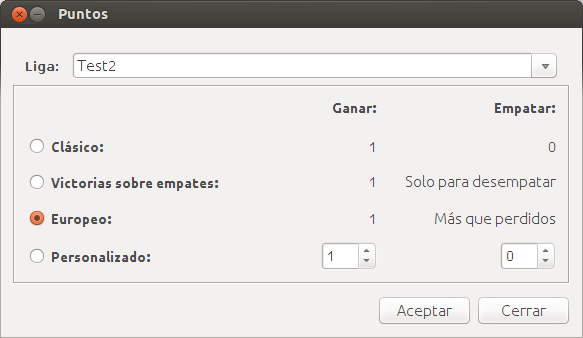
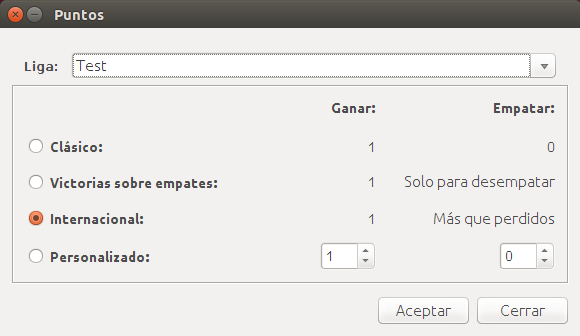
International Score added.

diff --git a/kendotournament-gui/src/main/java/com/softwaremagico/ktg/gui/ChooseScore.java b/kendotournament-gui/src/main/java/com/softwaremagico/ktg/gui/ChooseScore.java
@@ -62,7 +62,6 @@ public class ChooseScore extends javax.swing.JFrame {
         ClassicRadioButton.setText(trans.getTranslatedText("ClassicRadioButton"));
         WinOverDrawsRadioButton.setText(trans.getTranslatedText("WinOverDrawsRadioButton"));
         CustomRadioButton.setText(trans.getTranslatedText("CustomRadioButton"));
-        EuropeanRadioButton.setText(trans.getTranslatedText("EuropeanRadioButton"));
         InternationalRadioButton.setText(trans.getTranslatedText("InternationlRadioButton"));
         WinLabel.setText(trans.getTranslatedText("WinTag"));
         DrawLabel.setText(trans.getTranslatedText("DrawTag"));
@@ -77,8 +76,6 @@ public class ChooseScore extends javax.swing.JFrame {
         switch (scoreType) {
             case CUSTOM:
                 return CustomRadioButton;
-            case EUROPEAN:
-                return EuropeanRadioButton;
             case INTERNATIONAL:
             	return InternationalRadioButton;
             case CLASSIC:
@@ -116,7 +113,7 @@ public class ChooseScore extends javax.swing.JFrame {
         if (CustomRadioButton.isSelected()) {
             return ScoreType.CUSTOM;
         }
-        if (EuropeanRadioButton.isSelected()) {
+        if (InternationalRadioButton.isSelected()) {
             return ScoreType.EUROPEAN;
         }
         if (InternationalRadioButton.isSelected()) {
@@ -147,8 +144,8 @@ public class ChooseScore extends javax.swing.JFrame {
         try {
             List<Tournament> listTournaments = TournamentPool.getInstance().getSorted();
             try {
-                for (int i = 0; i < listTournaments.size(); i++) {
-                    TournamentComboBox.addItem(listTournaments.get(i));
+                for (Tournament listTournament : listTournaments) {
+                    TournamentComboBox.addItem(listTournament);
                 }
                 TournamentComboBox.setSelectedItem(KendoTournamentGenerator.getInstance().getLastSelectedTournament());
             } catch (NullPointerException npe) {
@@ -183,7 +180,7 @@ public class ChooseScore extends javax.swing.JFrame {
         DrawLabel = new javax.swing.JLabel();
         InternationalUndrawLabel = new javax.swing.JLabel();
         DrawSpinner = new javax.swing.JSpinner();
-        EuropeanRadioButton = new javax.swing.JRadioButton();
+        InternationalRadioButton = new javax.swing.JRadioButton();
         jLabel1 = new javax.swing.JLabel();
         HierarchicalDrawLabel = new javax.swing.JLabel();
         ClassicRadioButton = new javax.swing.JRadioButton();
@@ -244,9 +241,9 @@ public class ChooseScore extends javax.swing.JFrame {
             }
         });
 
-        ScoreGroup.add(EuropeanRadioButton);
-        EuropeanRadioButton.setFont(new java.awt.Font("Ubuntu", 1, 14)); // NOI18N
-        EuropeanRadioButton.setText("European");
+        ScoreGroup.add(InternationalRadioButton);
+        InternationalRadioButton.setFont(new java.awt.Font("Ubuntu", 1, 14)); // NOI18N
+        InternationalRadioButton.setText("International");
 
         jLabel1.setText("1");
 
@@ -272,7 +269,7 @@ public class ChooseScore extends javax.swing.JFrame {
                     .addGroup(ScorePanelLayout.createSequentialGroup()
                         .addGroup(ScorePanelLayout.createParallelGroup(javax.swing.GroupLayout.Alignment.LEADING)
                             .addComponent(WinOverDrawsRadioButton)
-                            .addComponent(EuropeanRadioButton)
+                            .addComponent(InternationalRadioButton)
                             .addComponent(CustomRadioButton))
                         .addGap(100, 100, 100)
                         .addGroup(ScorePanelLayout.createParallelGroup(javax.swing.GroupLayout.Alignment.LEADING)
@@ -315,7 +312,7 @@ public class ChooseScore extends javax.swing.JFrame {
                     .addComponent(InternationalUndrawLabel))
                 .addPreferredGap(javax.swing.LayoutStyle.ComponentPlacement.UNRELATED)
                 .addGroup(ScorePanelLayout.createParallelGroup(javax.swing.GroupLayout.Alignment.BASELINE)
-                    .addComponent(EuropeanRadioButton)
+                    .addComponent(InternationalRadioButton)
                     .addComponent(jLabel1)
                     .addComponent(HierarchicalDrawLabel))
                 .addPreferredGap(javax.swing.LayoutStyle.ComponentPlacement.UNRELATED)
@@ -451,8 +448,8 @@ public class ChooseScore extends javax.swing.JFrame {
     private javax.swing.JRadioButton CustomRadioButton;
     private javax.swing.JLabel DrawLabel;
     private javax.swing.JSpinner DrawSpinner;
-    private javax.swing.JRadioButton EuropeanRadioButton;
     private javax.swing.JLabel HierarchicalDrawLabel;
+    private javax.swing.JRadioButton InternationalRadioButton;
     private javax.swing.JLabel InternationalUndrawLabel;
     private javax.swing.ButtonGroup ScoreGroup;
     private javax.swing.JPanel ScorePanel;

diff --git a/kendotournament-core/src/test/java/com/softwaremagico/ktg/persistence/InternationalScoreTest.java b/kendotournament-core/src/test/java/com/softwaremagico/ktg/persistence/InternationalScoreTest.java
@@ -20,15 +20,15 @@ import java.sql.SQLException;
 import org.testng.Assert;
 import org.testng.annotations.Test;
 
-@Test(groups = {"europeanChampionshipTest"}, dependsOnGroups = {"populateDatabase"})
-public class EuropeanScoreTest {
+@Test(groups = {"internationalChampionshipTest"}, dependsOnGroups = {"populateDatabase"})
+public class InternationalScoreTest {
 
     private static final Integer MEMBERS = 3;
     private static final Integer TEAMS_PER_GROUP = 4;
     private static final Integer GROUPS = 2;
-    public static final String TOURNAMENT_NAME = "europeanChampionshipTest";
+    public static final String TOURNAMENT_NAME = "internationalChampionshipTest";
     private static Tournament tournament = null;
-    private static final ScoreType SCORE_TYPE = ScoreType.EUROPEAN;
+    private static final ScoreType SCORE_TYPE = ScoreType.INTERNATIONAL;
 
     @Test
     public void addTournament() throws SQLException {
@@ -44,7 +44,7 @@ public class EuropeanScoreTest {
             RolePool.getInstance().add(
                     tournament,
                     new Role(tournament, competitor, RolePool.getInstance().getRoleTags().getRole("Competitor"), false,
-                            false));
+                    false));
         }
         Assert.assertTrue(RolePool.getInstance().get(tournament).size() == PopulateDatabase.clubs.length
                 * PopulateDatabase.competitors.length);
@@ -127,9 +127,11 @@ public class EuropeanScoreTest {
             groupTest.getFights().get(1).getDuels().get(0).setHit(true, 0, Score.MEN);
             groupTest.getFights().get(1).getDuels().get(0).setHit(true, 1, Score.MEN);
             groupTest.getFights().get(1).getDuels().get(1).setHit(false, 0, Score.MEN);
+            //Team3 vs Team4
             //Team1 vs Team4
             groupTest.getFights().get(3).getDuels().get(0).setHit(false, 0, Score.MEN);
-
+            
+            
             //Total Team1 0/1M 2F 2H
             //Total Team2 0/0M 0F 0H
             //Total Team3 1/1M 1/1F 2H
@@ -139,11 +141,11 @@ public class EuropeanScoreTest {
         for (Fight fight : FightPool.getInstance().get(tournament)) {
             fight.setOver(true);
         }
-        //Team01 has more duels won, but less draw fights than team3 and team4.
+        //Team01 has more duels won, but less draw fights.
         //Tam03 has less draw duels but more hits than team4. In International, win Team03
         TGroup group1 = TournamentManagerFactory.getManager(tournament).getLevel(0).getGroups().get(0);
         Ranking ranking1 = new Ranking(group1.getFights());
-        Assert.assertTrue(ranking1.getTeam(0).equals(TeamPool.getInstance().get(tournament, "Team04")));
-        Assert.assertTrue(ranking1.getTeam(1).equals(TeamPool.getInstance().get(tournament, "Team03")));
+        Assert.assertTrue(ranking1.getTeam(0).equals(TeamPool.getInstance().get(tournament, "Team03")));
+        Assert.assertTrue(ranking1.getTeam(1).equals(TeamPool.getInstance().get(tournament, "Team04")));
     }
 }
